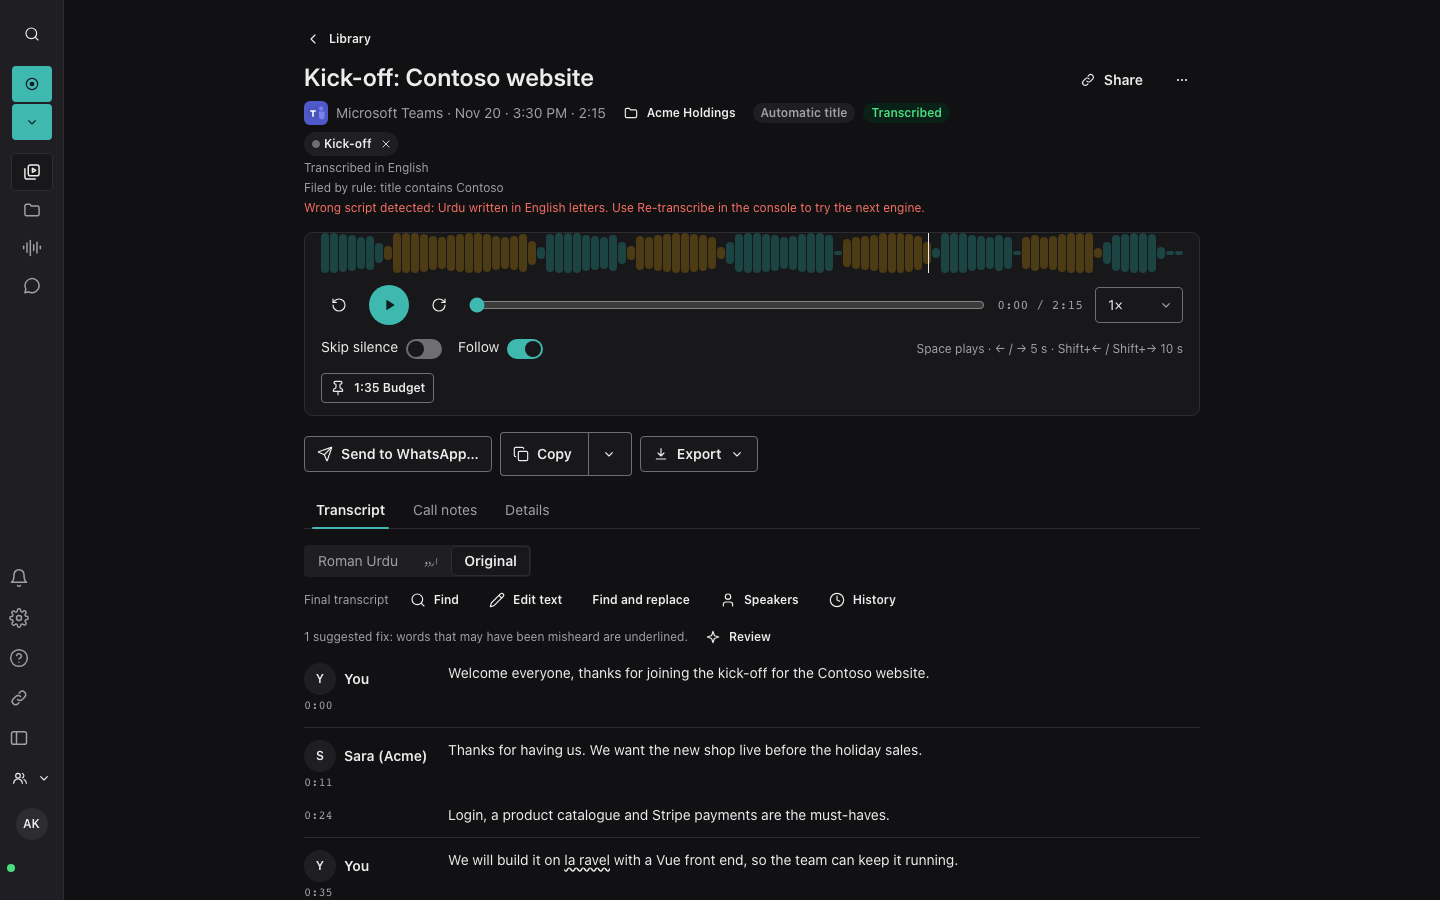
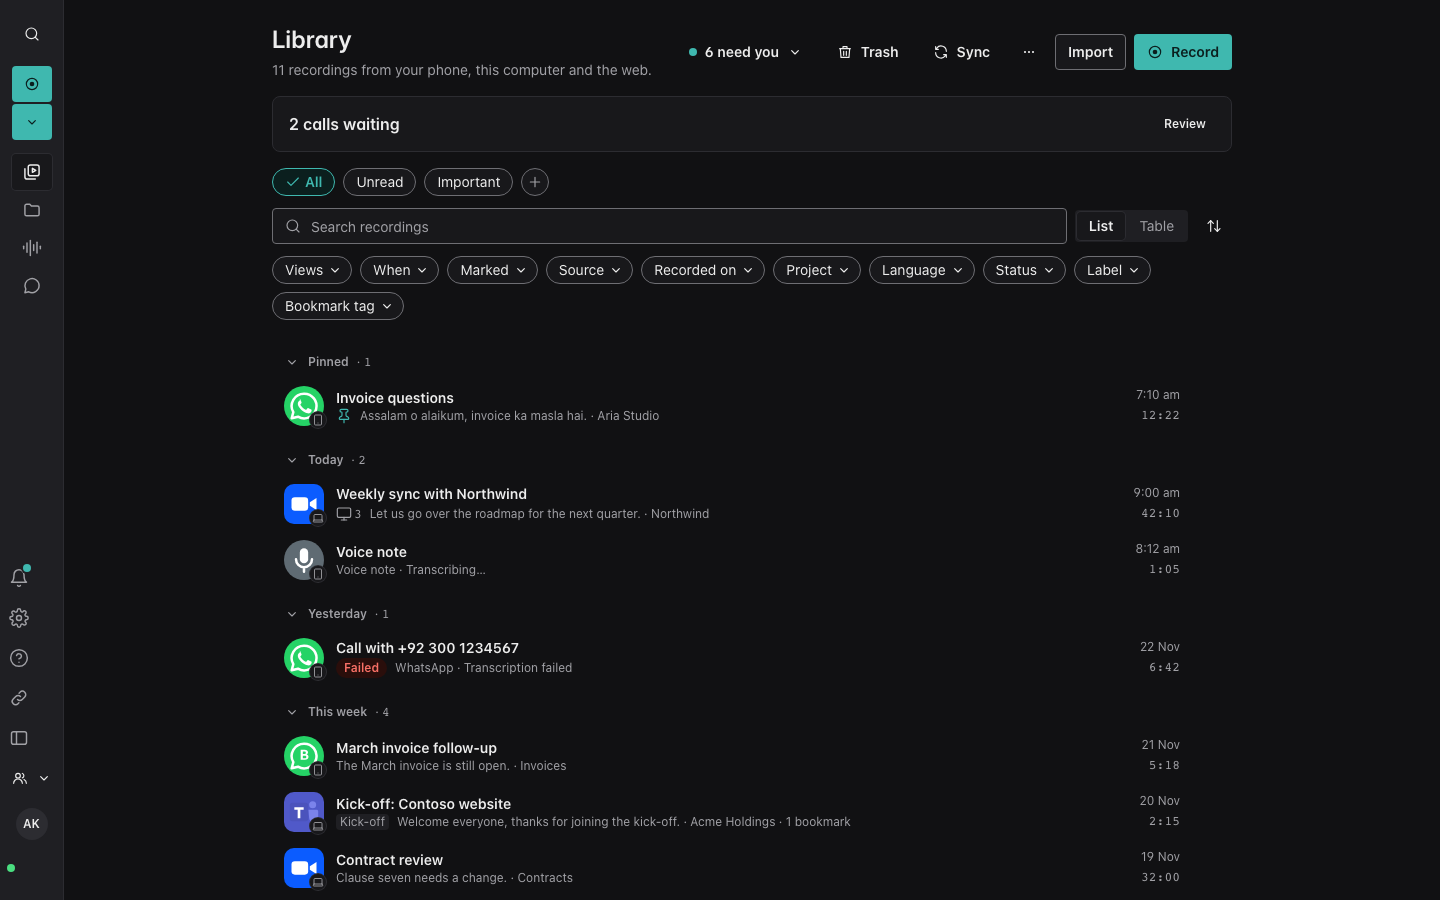
Show the rail's attention count as a dot; more sidebar count checks and shots
In the icon rail, a count that needs attention (Activity's) is now a small
accent dot on its icon, ringed in the row's background, instead of being
hidden; the number stays for assistive tools. Place counts stay out of the
rail. The sidebar counts test also checks a place a recording is dragged
over (secondary text on the accent's soft fill) and that the rail's dot and
the Library header's attention dot reach 3:1 in light and dark.

New shots: a place as the current row and a place under the pointer, and
the rail with Activity's dot, light and dark. The screenshot script lets a
screen keep its hover for the picture.

diff --git a/desktop/src/v2/shell/sidebarCounts.test.tsx b/desktop/src/v2/shell/sidebarCounts.test.tsx
@@ -1,6 +1,8 @@
 // The sidebar's counts (S2, the owner's report: grey numbers on a teal pill): a smart folder's count is quiet text with
-// no pill, in the secondary colour; only a count that needs attention (Activity's) keeps the accent pill. Each count's
-// text reads at 4.5:1 or more on the background it actually sits on, in light and dark, from the stylesheet's tokens.
+// no pill, in the secondary colour; only a count that needs attention (Activity's) keeps the accent pill, and in the
+// icon rail it is a small accent dot on the icon. Each count's text reads at 4.5:1 or more on the background it
+// actually sits on (the sidebar, a row's hover, the current row, a place a recording is dragged over), and the rail's
+// dot at 3:1 or more, in light and dark, from the stylesheet's tokens.
 import { afterAll, beforeAll, describe, expect, it } from "vitest";
 import { render } from "@testing-library/react";
 import { readFileSync } from "node:fs";
@@ -41,13 +43,15 @@ function contrast(a: string, b: string): number {
   return (x + 0.05) / (y + 0.05);
 }
 
-/** The markup the shell draws: Activity's count (needs attention) and a place's count (a smart folder). */
-function drawSidebar() {
+/** The markup the shell draws: Activity's count (needs attention) and a place's count (a smart folder), in the full
+ * sidebar or the icon rail. */
+function drawSidebar(rail: "on" | "off" = "off") {
   render(
-    <nav className="el-root el-sidebar">
+    <nav className="el-root el-sidebar" data-rail={rail}>
       <NavItem icon={BellIcon} label="Activity" count={6} />
+      <NavItem icon={BellIcon} label="Settings" />
       <ul className="el-nav-sub">
-        <li>
+        <li data-drop-project="">
           <button type="button" className="el-nav-item el-nav-item--sub el-nav-item--place" aria-label="Inbox, 12">
             <span className="el-nav-item__label">Inbox</span>
             <span className="el-nav-item__count el-caption el-num" data-testid="place-count">12</span>
@@ -57,7 +61,7 @@ function drawSidebar() {
     </nav>,
   );
   const counts = document.querySelectorAll<HTMLElement>(".el-nav-item__count");
-  return { attention: counts[0], place: document.querySelector<HTMLElement>("[data-testid=place-count]")! };
+  return { attention: counts[0], place: document.querySelector<HTMLElement>("[data-testid=place-count]")!, items: document.querySelectorAll<HTMLElement>(".el-nav-item") };
 }
 
 /** A selector's specificity as one number (ids, then classes, attributes and pseudo-classes, then elements). */
@@ -107,6 +111,42 @@ describe("the sidebar's counts", () => {
     expect(cascaded(attention, "color")).toBe("var(--el-role-text-on-accent)");
   });
 
+  it("a place a recording is dragged over shows the accent's soft fill under its quiet count", () => {
+    const { place } = drawSidebar();
+    const row = place.closest("[data-drop-project]")!;
+    row.classList.add("drop-over");
+    row.closest("nav")!.classList.add("el-shell");
+    expect(cascaded(row, "background")).toBe("var(--el-role-accent-soft)");
+    expect(cascaded(place, "color")).toBe("var(--el-role-text-secondary)");
+  });
+
+  it("in the icon rail, a count that needs attention is a small accent dot on its icon; the number stays for assistive tools", () => {
+    const { attention, items } = drawSidebar("on");
+    const dot = items[0].querySelector(".el-nav-item__dot")!;
+    expect(dot).toHaveAttribute("aria-hidden", "true");
+    expect(dot).toHaveClass("el-attention-dot");
+    expect(cascaded(dot, "display")).toBe("block");
+    expect(cascaded(dot, "background")).toBe("var(--el-role-accent-default)");
+    expect(cascaded(dot, "position")).toBe("absolute");
+    expect(cascaded(items[0], "position")).toBe("relative");
+    // The number is clipped out of sight, not removed: the row still says "Activity 6".
+    expect(cascaded(attention, "clip-path")).toBe("inset(50%)");
+    expect(items[0]).toHaveTextContent("Activity6");
+    // No count, no dot.
+    expect(items[1].querySelector(".el-nav-item__dot")).toBeNull();
+  });
+
+  it("the dot is only for the rail: the full sidebar shows the pill instead", () => {
+    const { items } = drawSidebar("off");
+    expect(cascaded(items[0].querySelector(".el-nav-item__dot")!, "display")).toBe("none");
+  });
+
+  it("place counts stay out of the rail (their list is under Library, which the rail leaves out)", () => {
+    const { place } = drawSidebar("on");
+    expect(cascaded(place.closest(".el-nav-sub")!, "display")).toBe("none");
+    expect(place.parentElement!.querySelector(".el-nav-item__dot")).toBeNull();
+  });
+
   describe.each(["light", "dark"] as const)("in %s", (theme) => {
     const t = tokens(theme);
     // A place's count sits on the sidebar, on its row's hover, or on the current row; Activity's on its own pill.
@@ -114,12 +154,25 @@ describe("the sidebar's counts", () => {
       ["a smart folder's count on the sidebar", "--el-role-text-secondary", "--el-role-bg-subtle"],
       ["a smart folder's count on its row's hover", "--el-role-text-secondary", "--el-role-border-default"],
       ["a smart folder's count on the current row", "--el-role-text-secondary", "--el-role-bg-surface"],
+      ["a smart folder's count while a recording is dragged over it", "--el-role-text-secondary", "--el-role-accent-soft"],
       ["Activity's count on its accent pill", "--el-role-text-on-accent", "--el-role-accent-default"],
     ];
     it.each(pairs)("%s reads at 4.5:1 or more", (_what, fg, bg) => {
       expect(t[fg], fg).toMatch(/^#[0-9a-f]{6}$/);
       expect(t[bg], bg).toMatch(/^#[0-9a-f]{6}$/);
       expect(contrast(t[fg], t[bg])).toBeGreaterThanOrEqual(4.5);
+    });
+
+    // A graphic (the rail's dot, the Library header's attention dot) needs 3:1 on what is around it.
+    const dots: [string, string][] = [
+      ["the rail's dot on the sidebar", "--el-role-bg-subtle"],
+      ["the rail's dot on its row's hover", "--el-role-border-default"],
+      ["the rail's dot on the current row", "--el-role-bg-surface"],
+      ["the Library header's attention dot on the page", "--el-role-bg-canvas"],
+    ];
+    it.each(dots)("%s stands out at 3:1 or more", (_what, bg) => {
+      expect(t[bg], bg).toMatch(/^#[0-9a-f]{6}$/);
+      expect(contrast(t["--el-role-accent-default"], t[bg])).toBeGreaterThanOrEqual(3);
     });
 
     it("the grey-on-teal the owner saw would not have passed (the test catches it)", () => {

diff --git a/desktop/src/v2/styles/v2.css b/desktop/src/v2/styles/v2.css
@@ -591,6 +591,12 @@
 .el-nav-item:hover { background: var(--el-role-border-default); color: var(--el-role-text-primary); }
 .el-nav-item[aria-current="page"] { background: var(--el-role-bg-surface); color: var(--el-role-text-primary); font-weight: var(--el-text-body-strong-weight); box-shadow: 0 0 0 var(--el-border-hairline) var(--el-role-border-default); }
 .el-nav-item__count { margin-inline-start: auto; }
+.el-nav-item__dot {
+  display: none; position: absolute; inset-block-start: var(--el-space-4); inset-inline-end: var(--el-space-8);
+  box-shadow: 0 0 0 var(--el-border-strong) var(--el-role-bg-subtle);
+}
+.el-nav-item:hover .el-nav-item__dot { box-shadow: 0 0 0 var(--el-border-strong) var(--el-role-border-default); }
+.el-nav-item[aria-current="page"] .el-nav-item__dot { box-shadow: 0 0 0 var(--el-border-strong) var(--el-role-bg-surface); }
 
 .el-player { display: flex; align-items: center; gap: var(--el-space-12); padding: var(--el-space-12) var(--el-space-16); }
 .el-player__play.el-button { border-radius: var(--el-radius-full); min-inline-size: var(--el-space-40); min-block-size: var(--el-space-40); }
@@ -970,6 +976,8 @@ button.el-step__head { cursor: pointer; }
     position: absolute; inline-size: var(--el-border-hairline); block-size: var(--el-border-hairline);
     overflow: hidden; clip-path: inset(50%); white-space: nowrap;
   }
+  .el-sidebar:not([data-rail="off"]) .el-nav-item { position: relative; }
+  .el-sidebar:not([data-rail="off"]) .el-nav-item__dot { display: block; }
 }
 /* The rail chosen in the sidebar (its Collapse button or "["): the same, at any window width. A sidebar opened
    in a narrow window (data-rail="off") keeps its names. */
@@ -995,6 +1003,11 @@ button.el-step__head { cursor: pointer; }
   position: absolute; inline-size: var(--el-border-hairline); block-size: var(--el-border-hairline);
   overflow: hidden; clip-path: inset(50%); white-space: nowrap;
 }
+/* A count that needs attention (Activity's) is a small accent dot on the icon's top end in the rail, ringed in the row's
+   own background so it stands off the icon; the number stays for assistive tools. Place counts are under Library,
+   which the rail leaves out. */
+.el-sidebar[data-rail="on"] .el-nav-item { position: relative; }
+.el-sidebar[data-rail="on"] .el-nav-item__dot { display: block; }
 
 /* ---- Skeleton, Loading, Progress ---------------------------------------------------------------------------- */
 /* Still shapes in the hairline colour, so they read on the canvas and on a card in both themes; nothing moves. */

diff --git a/desktop/src/v2/components/layout.tsx b/desktop/src/v2/components/layout.tsx
@@ -39,13 +39,18 @@ export function Sidebar({ label, brand, brandEnd, children, footer, rail, width 
   );
 }
 
-/** One place in the sidebar; the current page is marked for assistive tools too. */
+/**
+ * One place in the sidebar; the current page is marked for assistive tools too. Its count needs attention (Activity's
+ * "needs you"): the accent pill, and in the icon rail, where the count is only for assistive tools, a small accent dot
+ * on the icon.
+ */
 export function NavItem({ icon, label, current, count, onClick }: { icon: IconType; label: string; current?: boolean; count?: number; onClick?: () => void }) {
   return (
     <button type="button" className="el-nav-item" aria-current={current ? "page" : undefined} onClick={onClick} title={label}>
       <Icon icon={icon} size="md" />
       <span className="el-nav-item__label">{label}</span>
       {count !== undefined && <span className="el-nav-item__count el-caption el-num">{count}</span>}
+      {count !== undefined && count > 0 && <span className="el-attention-dot el-nav-item__dot" aria-hidden="true" />}
     </button>
   );
 }
